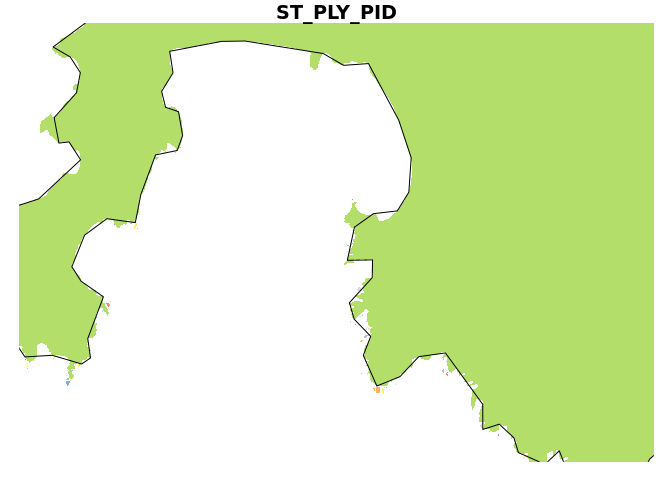
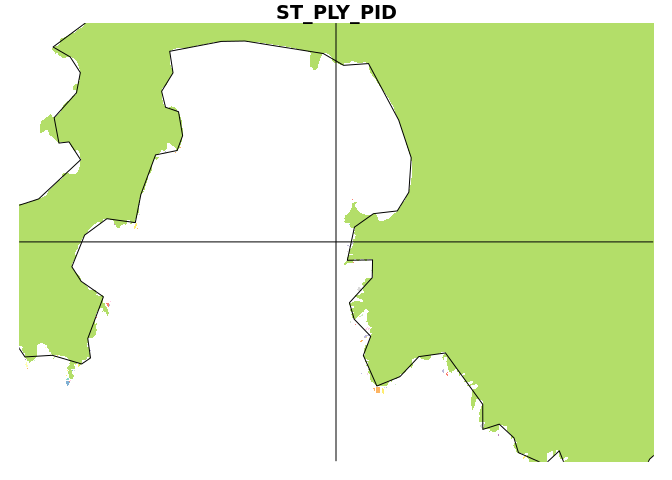
better readme

Changed region(s): [[0.0312, 0.5, 0.9688, 0.5312]]

diff --git a/README.md b/README.md
@@ -7,8 +7,8 @@ The goal of ozplot is to get maps of Australia to plot!
 
 The package doesn't do anything yet, it's just a place to park this code below.
 
-Obtain a set of shapefiles
---------------------------
+Obtain a set of polygon map files
+---------------------------------
 
 This block of code will download a ~1.5Gb zip file with many shapefiles in nested folders. I originally chose the MapInfo format, but those had empty geometries(!).
 
@@ -113,6 +113,7 @@ abline(v = 148, h = -43)
 
 ## that is very high resolution, checkout 
 plot(state[1], xlim = c(147.7, 148.2), ylim = c(-43.3, -43.0))
+abline(v = 148, h = -43)
 ```
 
 <img src="man/figures/README-data-4.png" width="100%" />
@@ -154,6 +155,7 @@ plot(state[1], xlim = 147.2385 + c(-1, 1)/30,
      ylim = -43.46973 + c(-1, 1)/30, border = NA)
 
 plot(st_geometry(simple_state), add = TRUE)
+abline(v = 147.2385, h = -43.46973)
 ```
 
 <img src="man/figures/README-cloudy-2.png" width="100%" />
